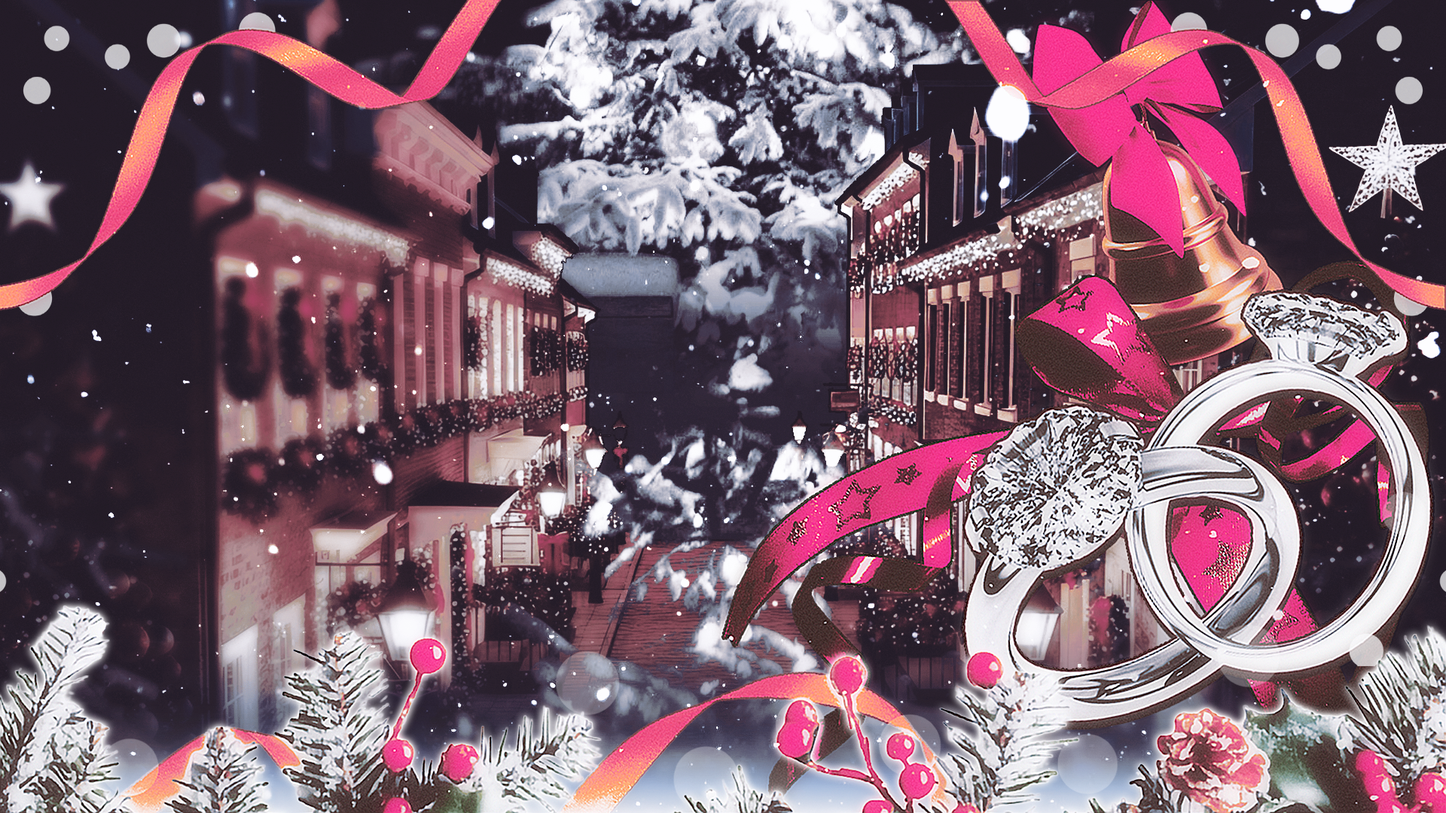
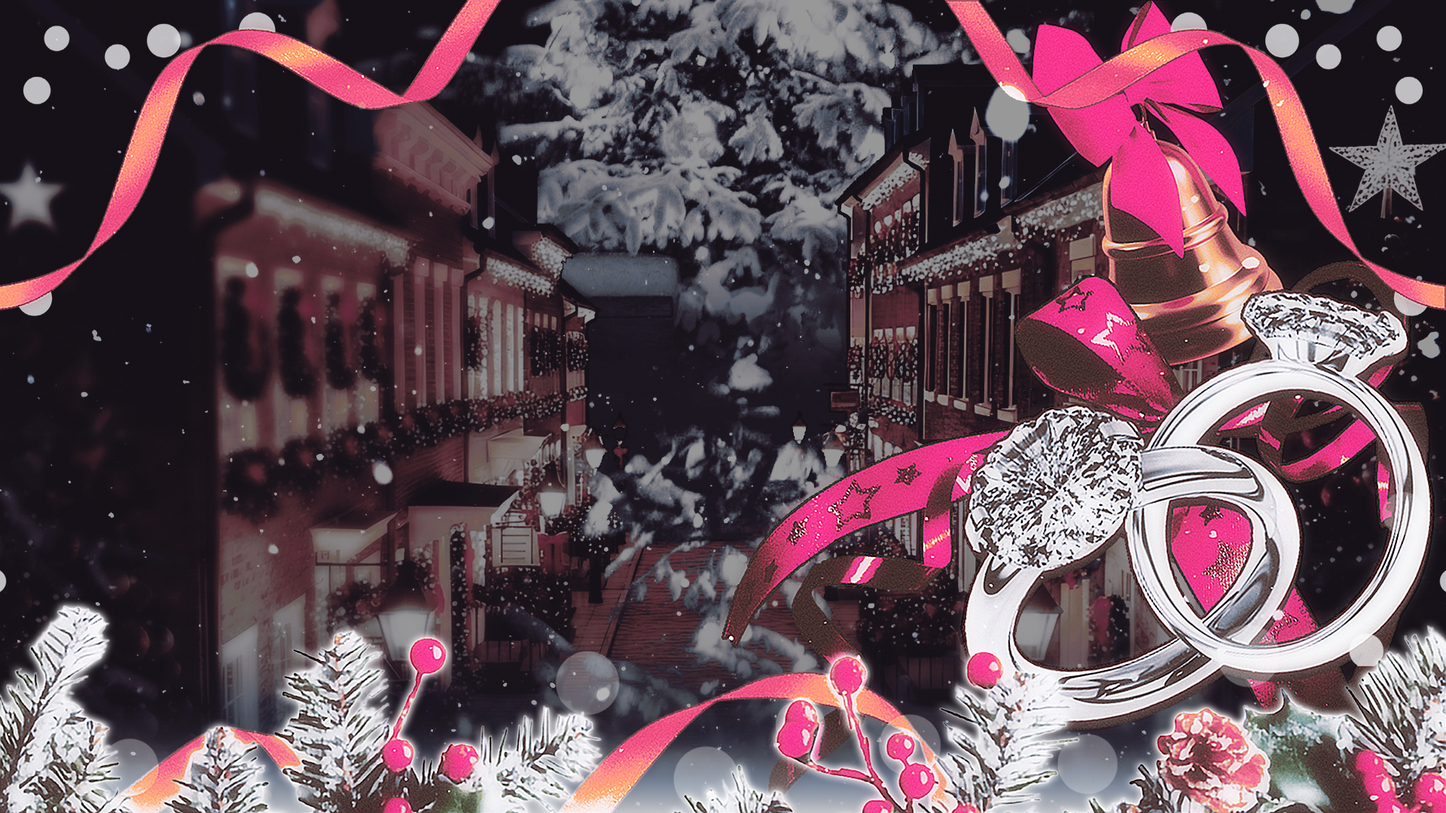
패배조건완화/배경수정./글자수정

diff --git a/js/minigame_shell.js b/js/minigame_shell.js
@@ -223,16 +223,28 @@
           const renderBox = (el, ring, label, closed = false) => {
             el.dataset.ring = closed ? "closed" : ring;
             el.classList.toggle("box-open", !closed);
-            putImage(el, closed ? "14. 닫힌 반지 상자X.webp" : ringImages[ring]);
+            putImage(
+              el,
+              closed ? "14. 닫힌 반지 상자X.webp" : ringImages[ring],
+            );
             if (!closed && ring === "diamond") {
               const sparkles = document.createElement("span");
               sparkles.className = "diamond-sparkles";
               sparkles.setAttribute("aria-hidden", "true");
-              [[45.8, 49.8], [43, 47.5], [48.5, 48.5], [44, 52], [48, 51.5]].forEach(([x, y], index) => {
+              [
+                [45.8, 49.8],
+                [43, 47.5],
+                [48.5, 48.5],
+                [44, 52],
+                [48, 51.5],
+              ].forEach(([x, y], index) => {
                 const particle = document.createElement("i");
                 particle.style.left = x + "%";
                 particle.style.top = y + "%";
-                particle.style.setProperty("--sparkle-delay", `${index * .37}s`);
+                particle.style.setProperty(
+                  "--sparkle-delay",
+                  `${index * 0.37}s`,
+                );
                 sparkles.appendChild(particle);
               });
               el.appendChild(sparkles);
@@ -384,9 +396,7 @@
           "deer",
           "merchant",
         ];
-        const lives = [
-          6200, 4400, 5000, 5500, 4800, 5500, 3400, 4700, 3700,
-        ];
+        const lives = [6200, 4400, 5000, 5500, 4800, 5500, 3400, 4700, 3700];
         const repeatable = new Set([
           "snowman",
           "gift",
@@ -563,7 +573,7 @@
               status.textContent =
                 failures === 3
                   ? "실패 · 도전 종료"
-                  : "실패 · 남은 도전 " + (3 - failures) + "회";
+                  : "실패 · 남은 도전 " + (1 - failures) + "회";
               button(
                 controls,
                 failures === 3 ? "이야기로 돌아가기" : "다시 도전하기",
@@ -573,7 +583,8 @@
               ).focus();
             }
           };
-          stage.querySelector("img").src = "./assets/images/상점게임-lossless.webp";
+          stage.querySelector("img").src =
+            "./assets/images/상점게임-lossless.webp";
           const frame = (now) => {
             if (paused || document.hidden) {
               last = null;
@@ -660,7 +671,7 @@
                   if (paused || document.hidden || !obstacles.has(obstacle))
                     return;
                   obstacles.delete(obstacle);
-                  window.gameSfx?.play(Math.random() < .5 ? "popA" : "popB");
+                  window.gameSfx?.play(Math.random() < 0.5 ? "popA" : "popB");
                   cleared++;
                   combo++;
                   bestCombo = Math.max(bestCombo, combo);

diff --git a/style/main.css b/style/main.css
@@ -1712,3 +1712,19 @@ html.theme-off body {
   filter: brightness(1.15);
 }
 #monogatari game-screen choice-container button:focus-visible { outline: 2px solid #ffd1e2; outline-offset: 3px; }
+@media (pointer: coarse), (max-height: 500px) {
+  #monogatari game-screen choice-container {
+    width: min(70vw, 400px, calc(100dvh * .6 * 639 / 131 / 3));
+    top: 42%;
+    max-height: 70dvh;
+    gap: 4px;
+  }
+  #monogatari game-screen choice-container [data-content="wrapper"] {
+    gap: 4px;
+  }
+  #monogatari game-screen choice-container button {
+    padding: 3% 7%;
+    font-size: clamp(12px, 1.7vw, 16px);
+    line-height: 1.3;
+  }
+}
